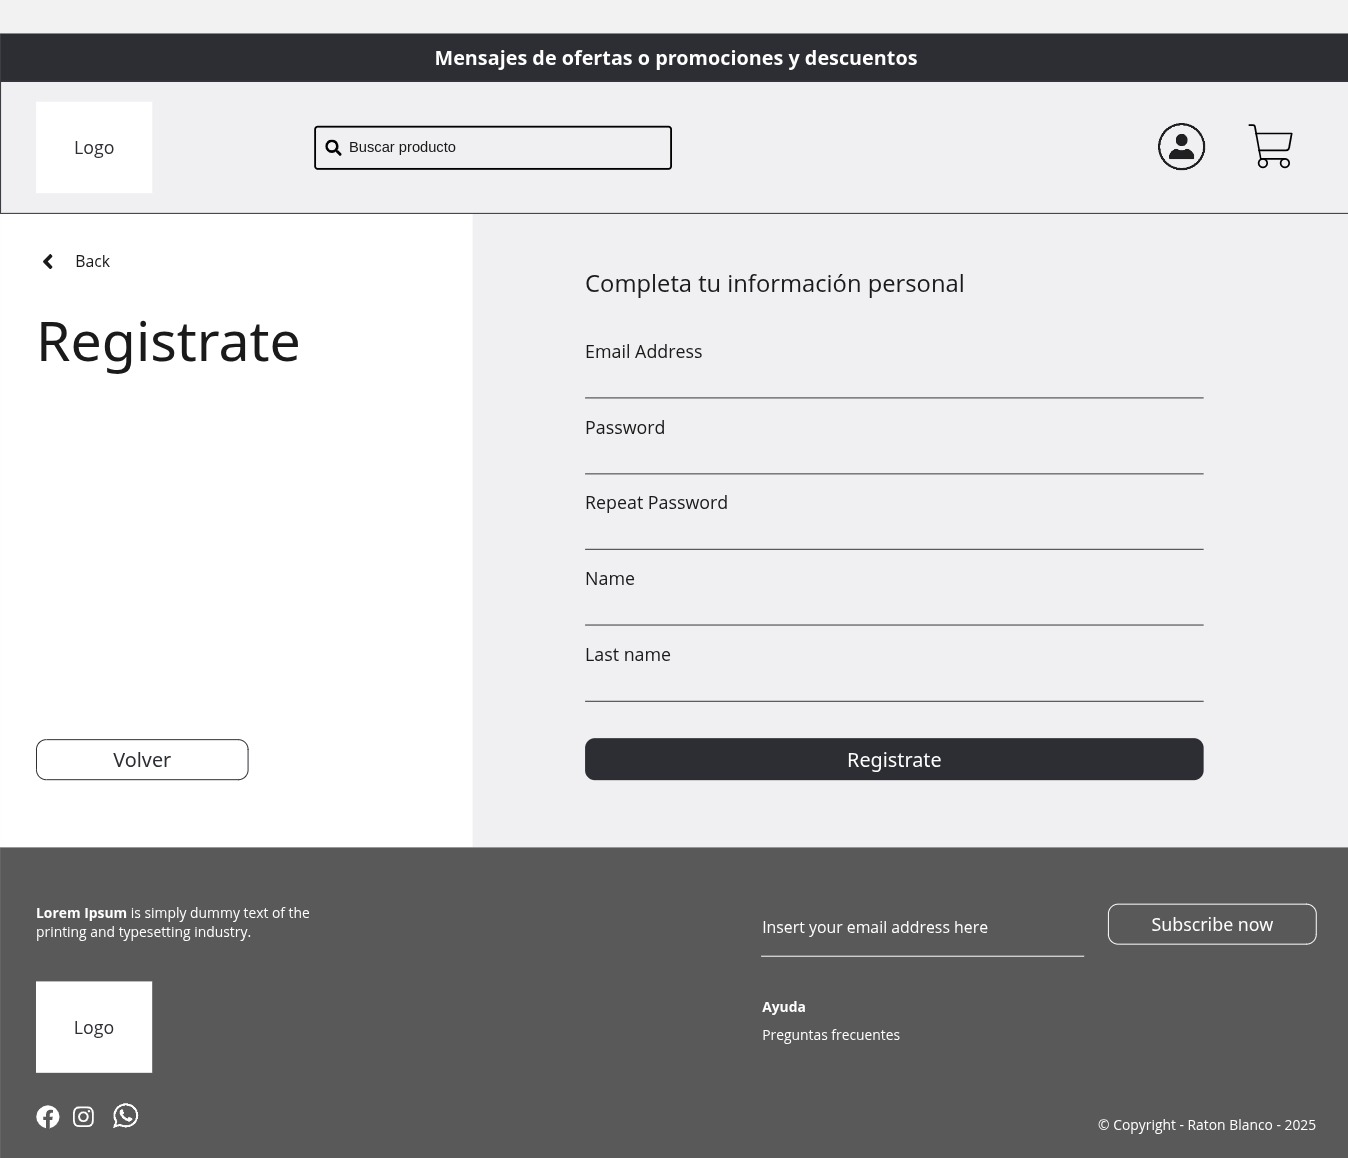
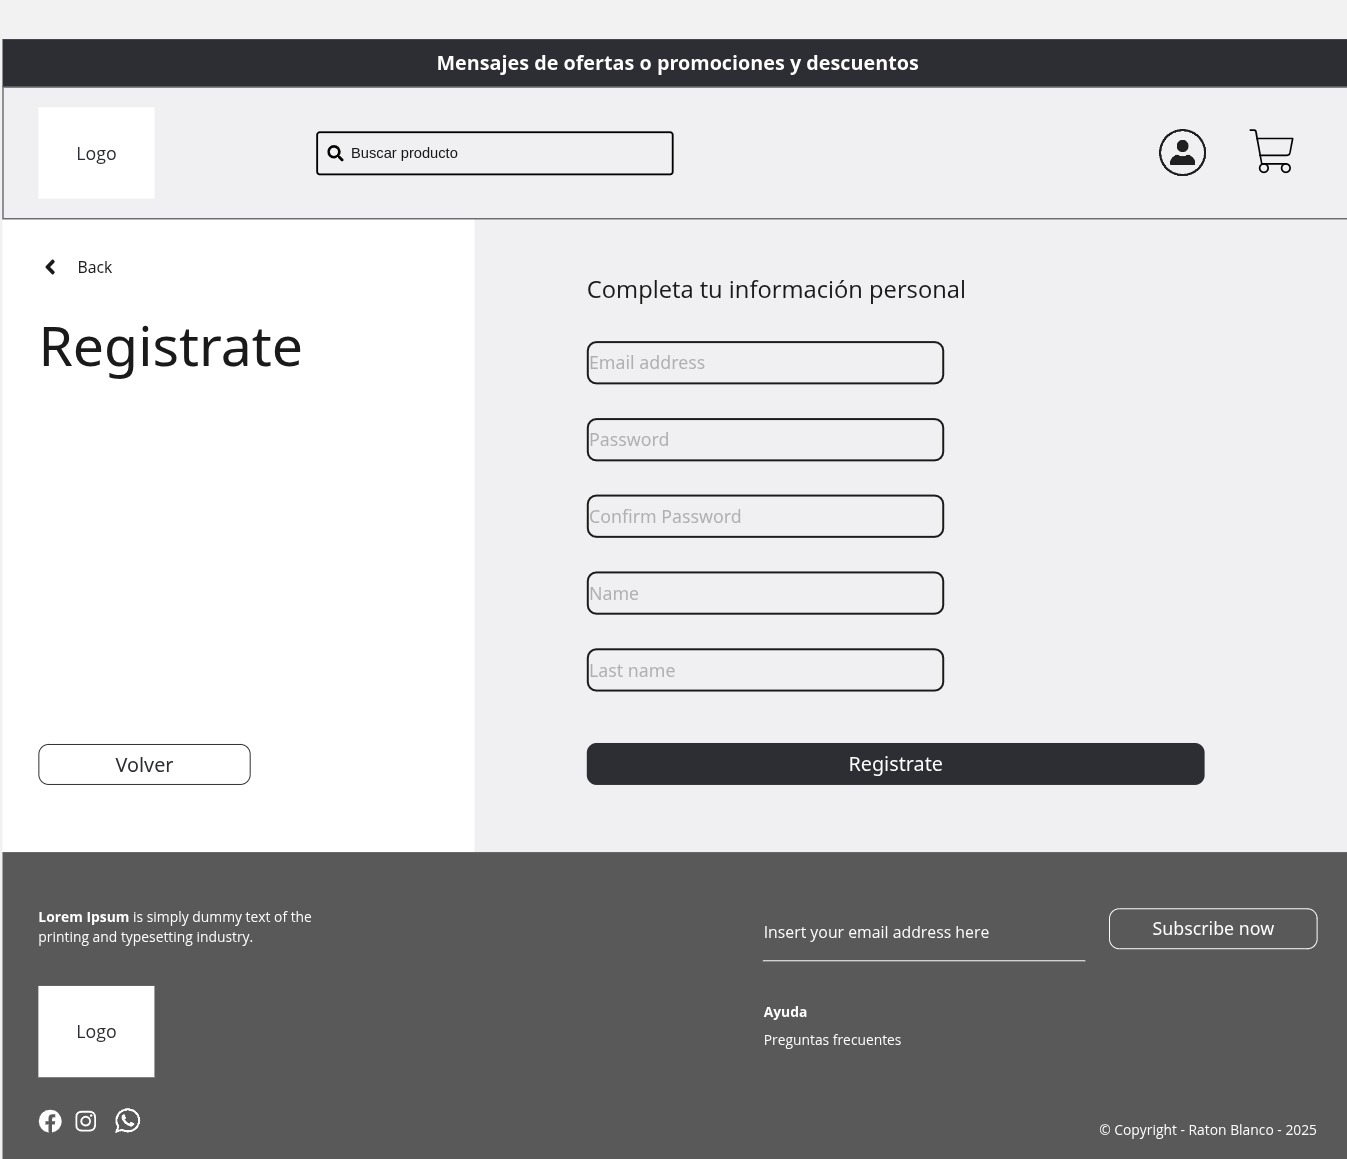
Arreglo del estilo del wireframe de registro

diff --git a/README.md b/README.md
@@ -5,8 +5,8 @@
 **¿Qué productos brindará el sitio?**
 ---
 El sitio es un e-commerce del emprendimiento 'Ratón Blanco'
-Este es un emprendimiento que tiene existencia reaL.
-En el, la artista Mariana Silva confecciona muñecas de tela de diseño y alta calidad.
+Este es un emprendimiento que tiene existencia real.
+En él, la artista Mariana Silva confecciona muñecas de tela de diseño y alta calidad.
 Los productos ofrecidos son piezas únicas, de diseño de autor.
 
 
